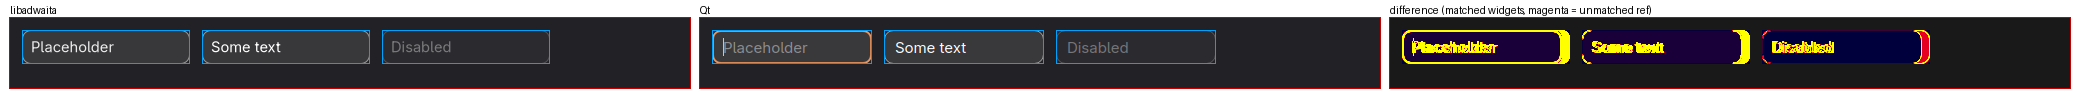
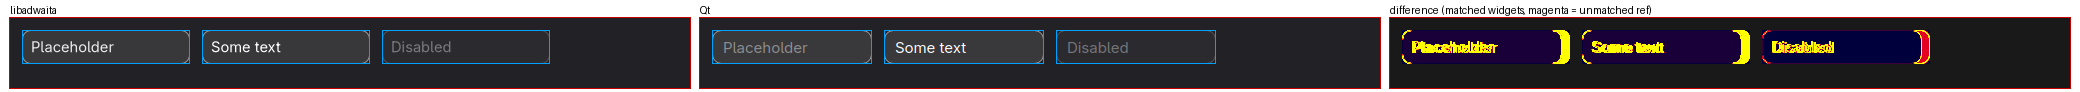
Refresh comparison report

diff --git a/docs/compare/REPORT.md b/docs/compare/REPORT.md
@@ -16,7 +16,7 @@ Worst dE covers main fill, border (outer pixel ring) and the window background c
 | buttons | 7/9/7 | 0 | 3 (info) | 0 | 0.0 | 0 / 0 | PARTIAL |
 | checks | 4/4/4 | 0 | 0 | 0.59 | 0.0 | 0 / 0.59 | OK |
 | dropdown | 2/2/2 | 0 | 26 (info) | 0 | 0.0 | 0 / 0 | OK |
-| entries | 3/3/3 | 0 | 8 (info) | 25.08 | 0.0 | 0 / 25.08 | FAIL |
+| entries | 3/3/3 | 0 | 8 (info) | 0 | 0.0 | 0 / 0 | OK |
 | focusring | 2/2/2 | 0 | 20 (info) | 0.44 | 0.0 | 0 / 0.44 | OK |
 | focusring-entry | 2/2/2 | 0 | 20 (info) | 0.44 | 0.0 | 0 / 0.44 | OK |
 | headerbar | 1/1/1 | 0 | 0 (info) | 0 | 0.0 | 0 / 0 | OK |
@@ -28,7 +28,7 @@ Worst dE covers main fill, border (outer pixel ring) and the window background c
 | scrollbar-idle | 2/3/0 | - | - | - | 0.0 | - / - | NO-MATCH |
 | scrollbar-thin | 6/5/1 | 2 | 2 | 5.84 | 0.0 | 2 / 5.84 | FAIL |
 | slider | 2/2/2 | 4 | 24 (info) | 0.59 | 0.0 | 4 / 0.59 | FAIL |
-| spinbutton | 2/2/2 | 0 | 0 (info) | 25.08 | 0.0 | 0 / 25.08 | FAIL |
+| spinbutton | 2/2/2 | 0 | 0 (info) | 0 | 0.0 | 0 / 0 | OK |
 | switches | 4/4/4 | 2 | 0 | 40 | 0.0 | 2 / 40 | FAIL |
 | tabs | 1/1/1 | 0 | 0 (info) | 0 | 0.0 | 0 / 0 | OK |
 | tooltip | 1/1/1 | 15 | 23 (info) | 0.64 | 0.0 | 15 / 0.64 | FAIL |
@@ -41,7 +41,7 @@ Worst dE covers main fill, border (outer pixel ring) and the window background c
 | buttons | 7/9/7 | 0 | 3 (info) | 0 | 0.0 | 0 / 0 | PARTIAL |
 | checks | 4/4/4 | 0 | 0 | 0.62 | 0.0 | 0 / 0.62 | OK |
 | dropdown | 2/2/2 | 0 | 26 (info) | 0 | 0.0 | 0 / 0 | OK |
-| entries | 3/3/3 | 0 | 8 (info) | 29.99 | 0.0 | 0 / 29.99 | FAIL |
+| entries | 3/3/3 | 0 | 8 (info) | 0 | 0.0 | 0 / 0 | OK |
 | focusring | 2/2/2 | 0 | 20 (info) | 0 | 0.0 | 0 / 0 | OK |
 | focusring-entry | 2/2/2 | 0 | 20 (info) | 0 | 0.0 | 0 / 0 | OK |
 | headerbar | 1/1/1 | 0 | 0 (info) | 0 | 0.0 | 0 / 0 | OK |
@@ -53,7 +53,7 @@ Worst dE covers main fill, border (outer pixel ring) and the window background c
 | scrollbar-idle | 2/3/0 | - | - | - | 0.0 | - / - | NO-MATCH |
 | scrollbar-thin | 6/5/1 | 2 | 2 | 5.84 | 0.0 | 2 / 5.84 | FAIL |
 | slider | 2/2/2 | 4 | 24 (info) | 0.59 | 0.0 | 4 / 0.59 | FAIL |
-| spinbutton | 2/2/2 | 0 | 0 (info) | 29.99 | 0.0 | 0 / 29.99 | FAIL |
+| spinbutton | 2/2/2 | 0 | 0 (info) | 0 | 0.0 | 0 / 0 | OK |
 | switches | 4/4/4 | 2 | 0 | 41.34 | 0.0 | 2 / 41.34 | FAIL |
 | tabs | 1/1/1 | 0 | 0 (info) | 0 | 0.0 | 0 / 0 | OK |
 | tooltip | 1/1/1 | 15 | 23 (info) | 0.64 | 0.0 | 15 / 0.64 | FAIL |
@@ -66,7 +66,7 @@ Worst dE covers main fill, border (outer pixel ring) and the window background c
 | buttons | 7/9/7 | 0 | 3 (info) | 0.32 | 0.0 | 0 / 0.32 | PARTIAL |
 | checks | 4/4/4 | 0 | 0 | 0.18 | 0.0 | 0 / 0.18 | OK |
 | dropdown | 2/2/2 | 0 | 26 (info) | 0.32 | 0.0 | 0 / 0.32 | OK |
-| entries | 3/3/3 | 0 | 8 (info) | 28.98 | 0.0 | 0 / 28.98 | FAIL |
+| entries | 3/3/3 | 0 | 8 (info) | 0.32 | 0.0 | 0 / 0.32 | OK |
 | focusring | 2/2/2 | 0 | 20 (info) | 0.59 | 0.0 | 0 / 0.59 | OK |
 | focusring-entry | 2/2/2 | 0 | 20 (info) | 0.59 | 0.0 | 0 / 0.59 | OK |
 | headerbar | 1/1/1 | 0 | 0 (info) | 0 | 0.0 | 0 / 0 | OK |
@@ -78,7 +78,7 @@ Worst dE covers main fill, border (outer pixel ring) and the window background c
 | scrollbar-idle | 2/3/1 | 1 | 1 | 6.01 | 0.0 | - / - | FAIL |
 | scrollbar-thin | 6/5/2 | 1 | 1 | 9.26 | 0.0 | 0 / 9.26 | FAIL |
 | slider | 2/2/2 | 2 | 24 (info) | 0 | 0.0 | 2 / 0 | OK |
-| spinbutton | 2/2/2 | 0 | 0 (info) | 28.98 | 0.0 | 0 / 28.98 | FAIL |
+| spinbutton | 2/2/2 | 0 | 0 (info) | 0.32 | 0.0 | 0 / 0.32 | OK |
 | switches | 4/4/4 | 0 | 0 | 0.18 | 0.0 | 0 / 0.18 | OK |
 | tabs | 1/1/1 | 0 | 0 (info) | 0 | 0.0 | 0 / 0 | OK |
 | tooltip | 1/1/1 | 15 | 23 (info) | 0.45 | 0.0 | 15 / 0.45 | FAIL |
@@ -91,7 +91,7 @@ Worst dE covers main fill, border (outer pixel ring) and the window background c
 | buttons | 7/9/7 | 0 | 3 (info) | 0.32 | 0.0 | 0 / 0.32 | PARTIAL |
 | checks | 4/4/4 | 0 | 0 | 0.4 | 0.0 | 0 / 0.4 | OK |
 | dropdown | 2/2/2 | 0 | 26 (info) | 0.32 | 0.0 | 0 / 0.32 | OK |
-| entries | 3/3/3 | 0 | 8 (info) | 29.57 | 0.0 | 0 / 29.57 | FAIL |
+| entries | 3/3/3 | 0 | 8 (info) | 0.32 | 0.0 | 0 / 0.32 | OK |
 | focusring | 2/2/2 | 0 | 20 (info) | 0.7 | 0.0 | 0 / 0.7 | OK |
 | focusring-entry | 2/2/2 | 0 | 20 (info) | 0.7 | 0.0 | 0 / 0.7 | OK |
 | headerbar | 1/1/1 | 0 | 0 (info) | 0 | 0.0 | 0 / 0 | OK |
@@ -103,7 +103,7 @@ Worst dE covers main fill, border (outer pixel ring) and the window background c
 | scrollbar-idle | 2/3/1 | 1 | 1 | 6.01 | 0.0 | - / - | FAIL |
 | scrollbar-thin | 6/5/2 | 1 | 1 | 9.26 | 0.0 | 0 / 9.26 | FAIL |
 | slider | 2/2/2 | 2 | 24 (info) | 0 | 0.0 | 2 / 0 | OK |
-| spinbutton | 2/2/2 | 0 | 0 (info) | 29.57 | 0.0 | 0 / 29.57 | FAIL |
+| spinbutton | 2/2/2 | 0 | 0 (info) | 0.32 | 0.0 | 0 / 0.32 | OK |
 | switches | 4/4/4 | 0 | 0 | 0.4 | 0.0 | 0 / 0.4 | OK |
 | tabs | 1/1/1 | 0 | 0 (info) | 0 | 0.0 | 0 / 0 | OK |
 | tooltip | 1/1/1 | 15 | 23 (info) | 0.45 | 0.0 | 15 / 0.45 | FAIL |
@@ -116,7 +116,7 @@ Worst dE covers main fill, border (outer pixel ring) and the window background c
 | buttons | 7/9/7 | 0 | 3 (info) | 0.49 | 0.0 | 0 / 0.49 | PARTIAL |
 | checks | 4/4/4 | 0 | 0 | 0.3 | 0.0 | 0 / 0.3 | OK |
 | dropdown | 2/2/2 | 0 | 26 (info) | 0.49 | 0.0 | 0 / 0.49 | OK |
-| entries | 3/3/3 | 0 | 8 (info) | 26.23 | 0.0 | 0 / 26.23 | FAIL |
+| entries | 3/3/3 | 0 | 8 (info) | 0.49 | 0.0 | 0 / 0.49 | OK |
 | focusring | 2/2/2 | 0 | 20 (info) | 0.4 | 0.0 | 0 / 0.4 | OK |
 | focusring-entry | 2/2/2 | 0 | 20 (info) | 0.4 | 0.0 | 0 / 0.4 | OK |
 | headerbar | 1/1/1 | 0 | 0 (info) | 0 | 0.0 | 0 / 0 | OK |
@@ -128,7 +128,7 @@ Worst dE covers main fill, border (outer pixel ring) and the window background c
 | scrollbar-idle | 2/3/0 | - | - | - | 0.0 | - / - | NO-MATCH |
 | scrollbar-thin | 6/5/1 | 2 | 2 | 13.41 | 0.0 | 2 / 13.41 | FAIL |
 | slider | 2/2/2 | 4 | 24 (info) | 0.3 | 0.0 | 0 / 19.28 | FAIL |
-| spinbutton | 2/2/2 | 0 | 0 (info) | 26.23 | 0.0 | 0 / 26.23 | FAIL |
+| spinbutton | 2/2/2 | 0 | 0 (info) | 0.49 | 0.0 | 0 / 0.49 | OK |
 | switches | 4/4/4 | 2 | 0 | 40 | 0.0 | 2 / 40 | FAIL |
 | tabs | 1/1/1 | 0 | 0 (info) | 0 | 0.0 | 0 / 0 | OK |
 | tooltip | 1/1/1 | 15 | 23 (info) | 0.64 | 0.0 | 15 / 0.64 | FAIL |
@@ -141,7 +141,7 @@ Worst dE covers main fill, border (outer pixel ring) and the window background c
 | buttons | 7/9/7 | 0 | 3 (info) | 0.49 | 0.0 | 0 / 0.49 | PARTIAL |
 | checks | 4/4/4 | 0 | 0 | 0.31 | 0.0 | 0 / 0.31 | OK |
 | dropdown | 2/2/2 | 0 | 26 (info) | 0.49 | 0.0 | 0 / 0.49 | OK |
-| entries | 3/3/3 | 0 | 8 (info) | 31.82 | 0.0 | 0 / 31.82 | FAIL |
+| entries | 3/3/3 | 0 | 8 (info) | 0.49 | 0.0 | 0 / 0.49 | OK |
 | focusring | 2/2/2 | 0 | 20 (info) | 0 | 0.0 | 0 / 0 | OK |
 | focusring-entry | 2/2/2 | 0 | 20 (info) | 0 | 0.0 | 0 / 0 | OK |
 | headerbar | 1/1/1 | 0 | 0 (info) | 0 | 0.0 | 0 / 0 | OK |
@@ -153,7 +153,7 @@ Worst dE covers main fill, border (outer pixel ring) and the window background c
 | scrollbar-idle | 2/3/0 | - | - | - | 0.0 | - / - | NO-MATCH |
 | scrollbar-thin | 6/5/1 | 2 | 2 | 13.41 | 0.0 | 2 / 13.41 | FAIL |
 | slider | 2/2/2 | 4 | 24 (info) | 0.31 | 0.0 | 0 / 23.05 | FAIL |
-| spinbutton | 2/2/2 | 0 | 0 (info) | 31.82 | 0.0 | 0 / 31.82 | FAIL |
+| spinbutton | 2/2/2 | 0 | 0 (info) | 0.49 | 0.0 | 0 / 0.49 | OK |
 | switches | 4/4/4 | 2 | 0 | 41.34 | 0.0 | 2 / 41.34 | FAIL |
 | tabs | 1/1/1 | 0 | 0 (info) | 0 | 0.0 | 0 / 0 | OK |
 | tooltip | 1/1/1 | 15 | 23 (info) | 0.64 | 0.0 | 15 / 0.64 | FAIL |
@@ -166,7 +166,7 @@ Worst dE covers main fill, border (outer pixel ring) and the window background c
 | buttons | 7/9/7 | 0 | 3 (info) | 0.94 | 0.0 | 0 / 0.94 | PARTIAL |
 | checks | 4/4/4 | 0 | 0 | 0.23 | 0.0 | 0 / 0.23 | OK |
 | dropdown | 2/2/2 | 0 | 26 (info) | 0.94 | 0.0 | 0 / 0.94 | OK |
-| entries | 3/3/3 | 0 | 8 (info) | 20.35 | 0.0 | 0 / 20.35 | FAIL |
+| entries | 3/3/3 | 0 | 8 (info) | 0.94 | 0.0 | 0 / 0.94 | OK |
 | focusring | 2/2/2 | 0 | 20 (info) | 0.73 | 0.0 | 0 / 0.73 | OK |
 | focusring-entry | 2/2/2 | 0 | 20 (info) | 0.73 | 0.0 | 0 / 0.73 | OK |
 | headerbar | 1/1/1 | 0 | 0 (info) | 0 | 0.0 | 0 / 0 | OK |
@@ -178,7 +178,7 @@ Worst dE covers main fill, border (outer pixel ring) and the window background c
 | scrollbar-idle | 2/3/1 | 1 | 1 | 6.01 | 0.0 | - / - | FAIL |
 | scrollbar-thin | 6/5/2 | 1 | 1 | 20.66 | 0.0 | 0 / 20.66 | FAIL |
 | slider | 2/2/2 | 1 | 24 (info) | 0.23 | 0.0 | 1.5 / 0.23 | OK |
-| spinbutton | 2/2/2 | 0 | 0 (info) | 20.35 | 0.0 | 0 / 20.35 | FAIL |
+| spinbutton | 2/2/2 | 0 | 0 (info) | 0.94 | 0.0 | 0 / 0.94 | OK |
 | switches | 4/4/4 | 0 | 0 | 0.37 | 0.0 | 0 / 0.37 | OK |
 | tabs | 1/1/1 | 0 | 0 (info) | 0 | 0.0 | 0 / 0 | OK |
 | tooltip | 1/1/1 | 15 | 23 (info) | 0.45 | 0.0 | 15 / 0.45 | FAIL |
@@ -191,7 +191,7 @@ Worst dE covers main fill, border (outer pixel ring) and the window background c
 | buttons | 7/9/7 | 0 | 3 (info) | 0.94 | 0.0 | 0 / 0.94 | PARTIAL |
 | checks | 4/4/4 | 0 | 0 | 0.48 | 0.0 | 0 / 0.48 | OK |
 | dropdown | 2/2/2 | 0 | 26 (info) | 0.94 | 0.0 | 0 / 0.94 | OK |
-| entries | 3/3/3 | 0 | 8 (info) | 24.12 | 0.0 | 0 / 24.12 | FAIL |
+| entries | 3/3/3 | 0 | 8 (info) | 0.94 | 0.0 | 0 / 0.94 | OK |
 | focusring | 2/2/2 | 0 | 20 (info) | 0.57 | 0.0 | 0 / 0.57 | OK |
 | focusring-entry | 2/2/2 | 0 | 20 (info) | 0.57 | 0.0 | 0 / 0.57 | OK |
 | headerbar | 1/1/1 | 0 | 0 (info) | 0 | 0.0 | 0 / 0 | OK |
@@ -203,36 +203,36 @@ Worst dE covers main fill, border (outer pixel ring) and the window background c
 | scrollbar-idle | 2/3/1 | 1 | 1 | 6.01 | 0.0 | - / - | FAIL |
 | scrollbar-thin | 6/5/2 | 1 | 1 | 20.66 | 0.0 | 0 / 20.66 | FAIL |
 | slider | 2/2/2 | 1 | 24 (info) | 0.48 | 0.0 | 1.5 / 0.48 | OK |
-| spinbutton | 2/2/2 | 0 | 0 (info) | 24.12 | 0.0 | 0 / 24.12 | FAIL |
+| spinbutton | 2/2/2 | 0 | 0 (info) | 0.94 | 0.0 | 0 / 0.94 | OK |
 | switches | 4/4/4 | 0 | 0 | 0.48 | 0.0 | 0 / 0.48 | OK |
 | tabs | 1/1/1 | 0 | 0 (info) | 0 | 0.0 | 0 / 0 | OK |
 | tooltip | 1/1/1 | 15 | 23 (info) | 0.45 | 0.0 | 15 / 0.45 | FAIL |
 
 ## Summary (1x, all scheme/accent tables)
 
-FAIL: 72, NO-MATCH: 4, OK: 76, PARTIAL: 8
+FAIL: 56, NO-MATCH: 4, OK: 92, PARTIAL: 8
 
 ## Top 20 problems
 
 Worst case across schemes/accents shown, with the scheme it occurs in and how many scheme/accent variants show the same problem. Radius values are rough diagonal estimates.
 
 1. switches #2 (ref 46x28 at 76,12): border/edge colour dE 41.34 (libadwaita #fafafb, Qt #ed5b00) [worst in light-orange; 4 of 8 variants]
-2. entries #1 (ref 168x34 at 12,12): border/edge colour dE 31.82 (libadwaita #8a8a8d, Qt #ae371c) [worst in hc-light-orange; 8 of 8 variants]
-3. spinbutton #1 (ref 106x34 at 12,12): border/edge colour dE 31.82 (libadwaita #8a8a8d, Qt #ae371c) [worst in hc-light-orange; 8 of 8 variants]
-4. scrollbar-thin #3 (ref 5x42 at 244,22): main fill colour dE 20.66 (libadwaita #414145, Qt #7a7a7d) [worst in hc-dark-blue; 8 of 8 variants]
-5. radios #2 (ref 20x20 at 59,15): border/edge colour dE 20.5 (libadwaita #fafafb, Qt #f6c4a5) [worst in light-orange; 4 of 8 variants]
-6. radios #1 (ref 20x20 at 15,15): border/edge colour dE 20.07 (libadwaita #f8f8f9, Qt #a5a5a7) [worst in hc-light-blue; 4 of 8 variants]
-7. scrollbar #3 (ref 10x123 at 235,20): Qt height 140 vs ref 123 (+17 px) [worst in light-blue; 8 of 8 variants]
-8. radios #4 (ref 20x20 at 147,15): border/edge colour dE 15.48 (libadwaita #fafafb, Qt #bad4f3) [worst in light-blue; 4 of 8 variants]
-9. tooltip #1 (ref 58x18 at 0,0): Qt height 33 vs ref 18 (+15 px) [worst in light-blue; 8 of 8 variants]
-10. switches #1 (ref 46x28 at 12,12): border/edge colour dE 13.64 (libadwaita #fafafb, Qt #bebec0) [worst in hc-light-blue; 4 of 8 variants]
-11. menu-shadow #1 (ref 176x213 at 0,0): corner radius est. Qt 41.0 vs ref 81.9 (rough estimate) [worst in light-blue; 8 of 8 variants]
-12. menu #1 (ref 128x165 at 0,0): Qt height 153 vs ref 165 (-12 px) [worst in light-blue; 8 of 8 variants]
-13. menu-shadow #1 (ref 176x213 at 0,0): Qt height 201 vs ref 213 (-12 px) [worst in light-blue; 8 of 8 variants]
-14. menu-shadow #1 (ref 176x213 at 0,0): main fill colour dE 6.36 (libadwaita #222226, Qt #36363a) [worst in dark-blue; 4 of 8 variants]
-15. menu-shadow #1 (ref 176x213 at 0,0): border/edge colour dE 6.36 (libadwaita #222226, Qt #36363a) [worst in dark-blue; 4 of 8 variants]
-16. scrollbar-thin #3 (ref 3x40 at 245,23): border/edge colour dE 6.33 (libadwaita #dfdfdf, Qt #fdfdfd) [worst in hc-light-blue; 8 of 8 variants]
-17. scrollbar #2 (ref 8x12 at 127,121): main fill colour dE 6.01 (libadwaita #242428, Qt #2c2226) [worst in dark-blue; 4 of 8 variants]
-18. scrollbar-idle #2 (ref 8x12 at 127,121): main fill colour dE 6.01 (libadwaita #242428, Qt #2c2226) [worst in dark-blue; 4 of 8 variants]
-19. scrollbar-thin #4 (ref 8x12 at 127,91): main fill colour dE 6.01 (libadwaita #242428, Qt #2c2226) [worst in dark-blue; 4 of 8 variants]
-20. scrollbar #2 (ref 8x12 at 127,121): border/edge colour dE 5.96 (libadwaita #222226, Qt #222230) [worst in dark-blue; 4 of 8 variants]
+2. scrollbar-thin #3 (ref 5x42 at 244,22): main fill colour dE 20.66 (libadwaita #414145, Qt #7a7a7d) [worst in hc-dark-blue; 8 of 8 variants]
+3. radios #2 (ref 20x20 at 59,15): border/edge colour dE 20.5 (libadwaita #fafafb, Qt #f6c4a5) [worst in light-orange; 4 of 8 variants]
+4. radios #1 (ref 20x20 at 15,15): border/edge colour dE 20.07 (libadwaita #f8f8f9, Qt #a5a5a7) [worst in hc-light-blue; 4 of 8 variants]
+5. scrollbar #3 (ref 10x123 at 235,20): Qt height 140 vs ref 123 (+17 px) [worst in light-blue; 8 of 8 variants]
+6. radios #4 (ref 20x20 at 147,15): border/edge colour dE 15.48 (libadwaita #fafafb, Qt #bad4f3) [worst in light-blue; 4 of 8 variants]
+7. tooltip #1 (ref 58x18 at 0,0): Qt height 33 vs ref 18 (+15 px) [worst in light-blue; 8 of 8 variants]
+8. switches #1 (ref 46x28 at 12,12): border/edge colour dE 13.64 (libadwaita #fafafb, Qt #bebec0) [worst in hc-light-blue; 4 of 8 variants]
+9. menu-shadow #1 (ref 176x213 at 0,0): corner radius est. Qt 41.0 vs ref 81.9 (rough estimate) [worst in light-blue; 8 of 8 variants]
+10. menu #1 (ref 128x165 at 0,0): Qt height 153 vs ref 165 (-12 px) [worst in light-blue; 8 of 8 variants]
+11. menu-shadow #1 (ref 176x213 at 0,0): Qt height 201 vs ref 213 (-12 px) [worst in light-blue; 8 of 8 variants]
+12. menu-shadow #1 (ref 176x213 at 0,0): main fill colour dE 6.36 (libadwaita #222226, Qt #36363a) [worst in dark-blue; 4 of 8 variants]
+13. menu-shadow #1 (ref 176x213 at 0,0): border/edge colour dE 6.36 (libadwaita #222226, Qt #36363a) [worst in dark-blue; 4 of 8 variants]
+14. scrollbar-thin #3 (ref 3x40 at 245,23): border/edge colour dE 6.33 (libadwaita #dfdfdf, Qt #fdfdfd) [worst in hc-light-blue; 8 of 8 variants]
+15. scrollbar #2 (ref 8x12 at 127,121): main fill colour dE 6.01 (libadwaita #242428, Qt #2c2226) [worst in dark-blue; 4 of 8 variants]
+16. scrollbar-idle #2 (ref 8x12 at 127,121): main fill colour dE 6.01 (libadwaita #242428, Qt #2c2226) [worst in dark-blue; 4 of 8 variants]
+17. scrollbar-thin #4 (ref 8x12 at 127,91): main fill colour dE 6.01 (libadwaita #242428, Qt #2c2226) [worst in dark-blue; 4 of 8 variants]
+18. scrollbar #2 (ref 8x12 at 127,121): border/edge colour dE 5.96 (libadwaita #222226, Qt #222230) [worst in dark-blue; 4 of 8 variants]
+19. scrollbar-idle #2 (ref 8x12 at 127,121): border/edge colour dE 5.96 (libadwaita #222226, Qt #222230) [worst in dark-blue; 4 of 8 variants]
+20. radios #3 (ref 20x20 at 103,15): border/edge colour dE 4.22 (libadwaita #ececed, Qt #d9d9db) [worst in hc-light-blue; 4 of 8 variants]
